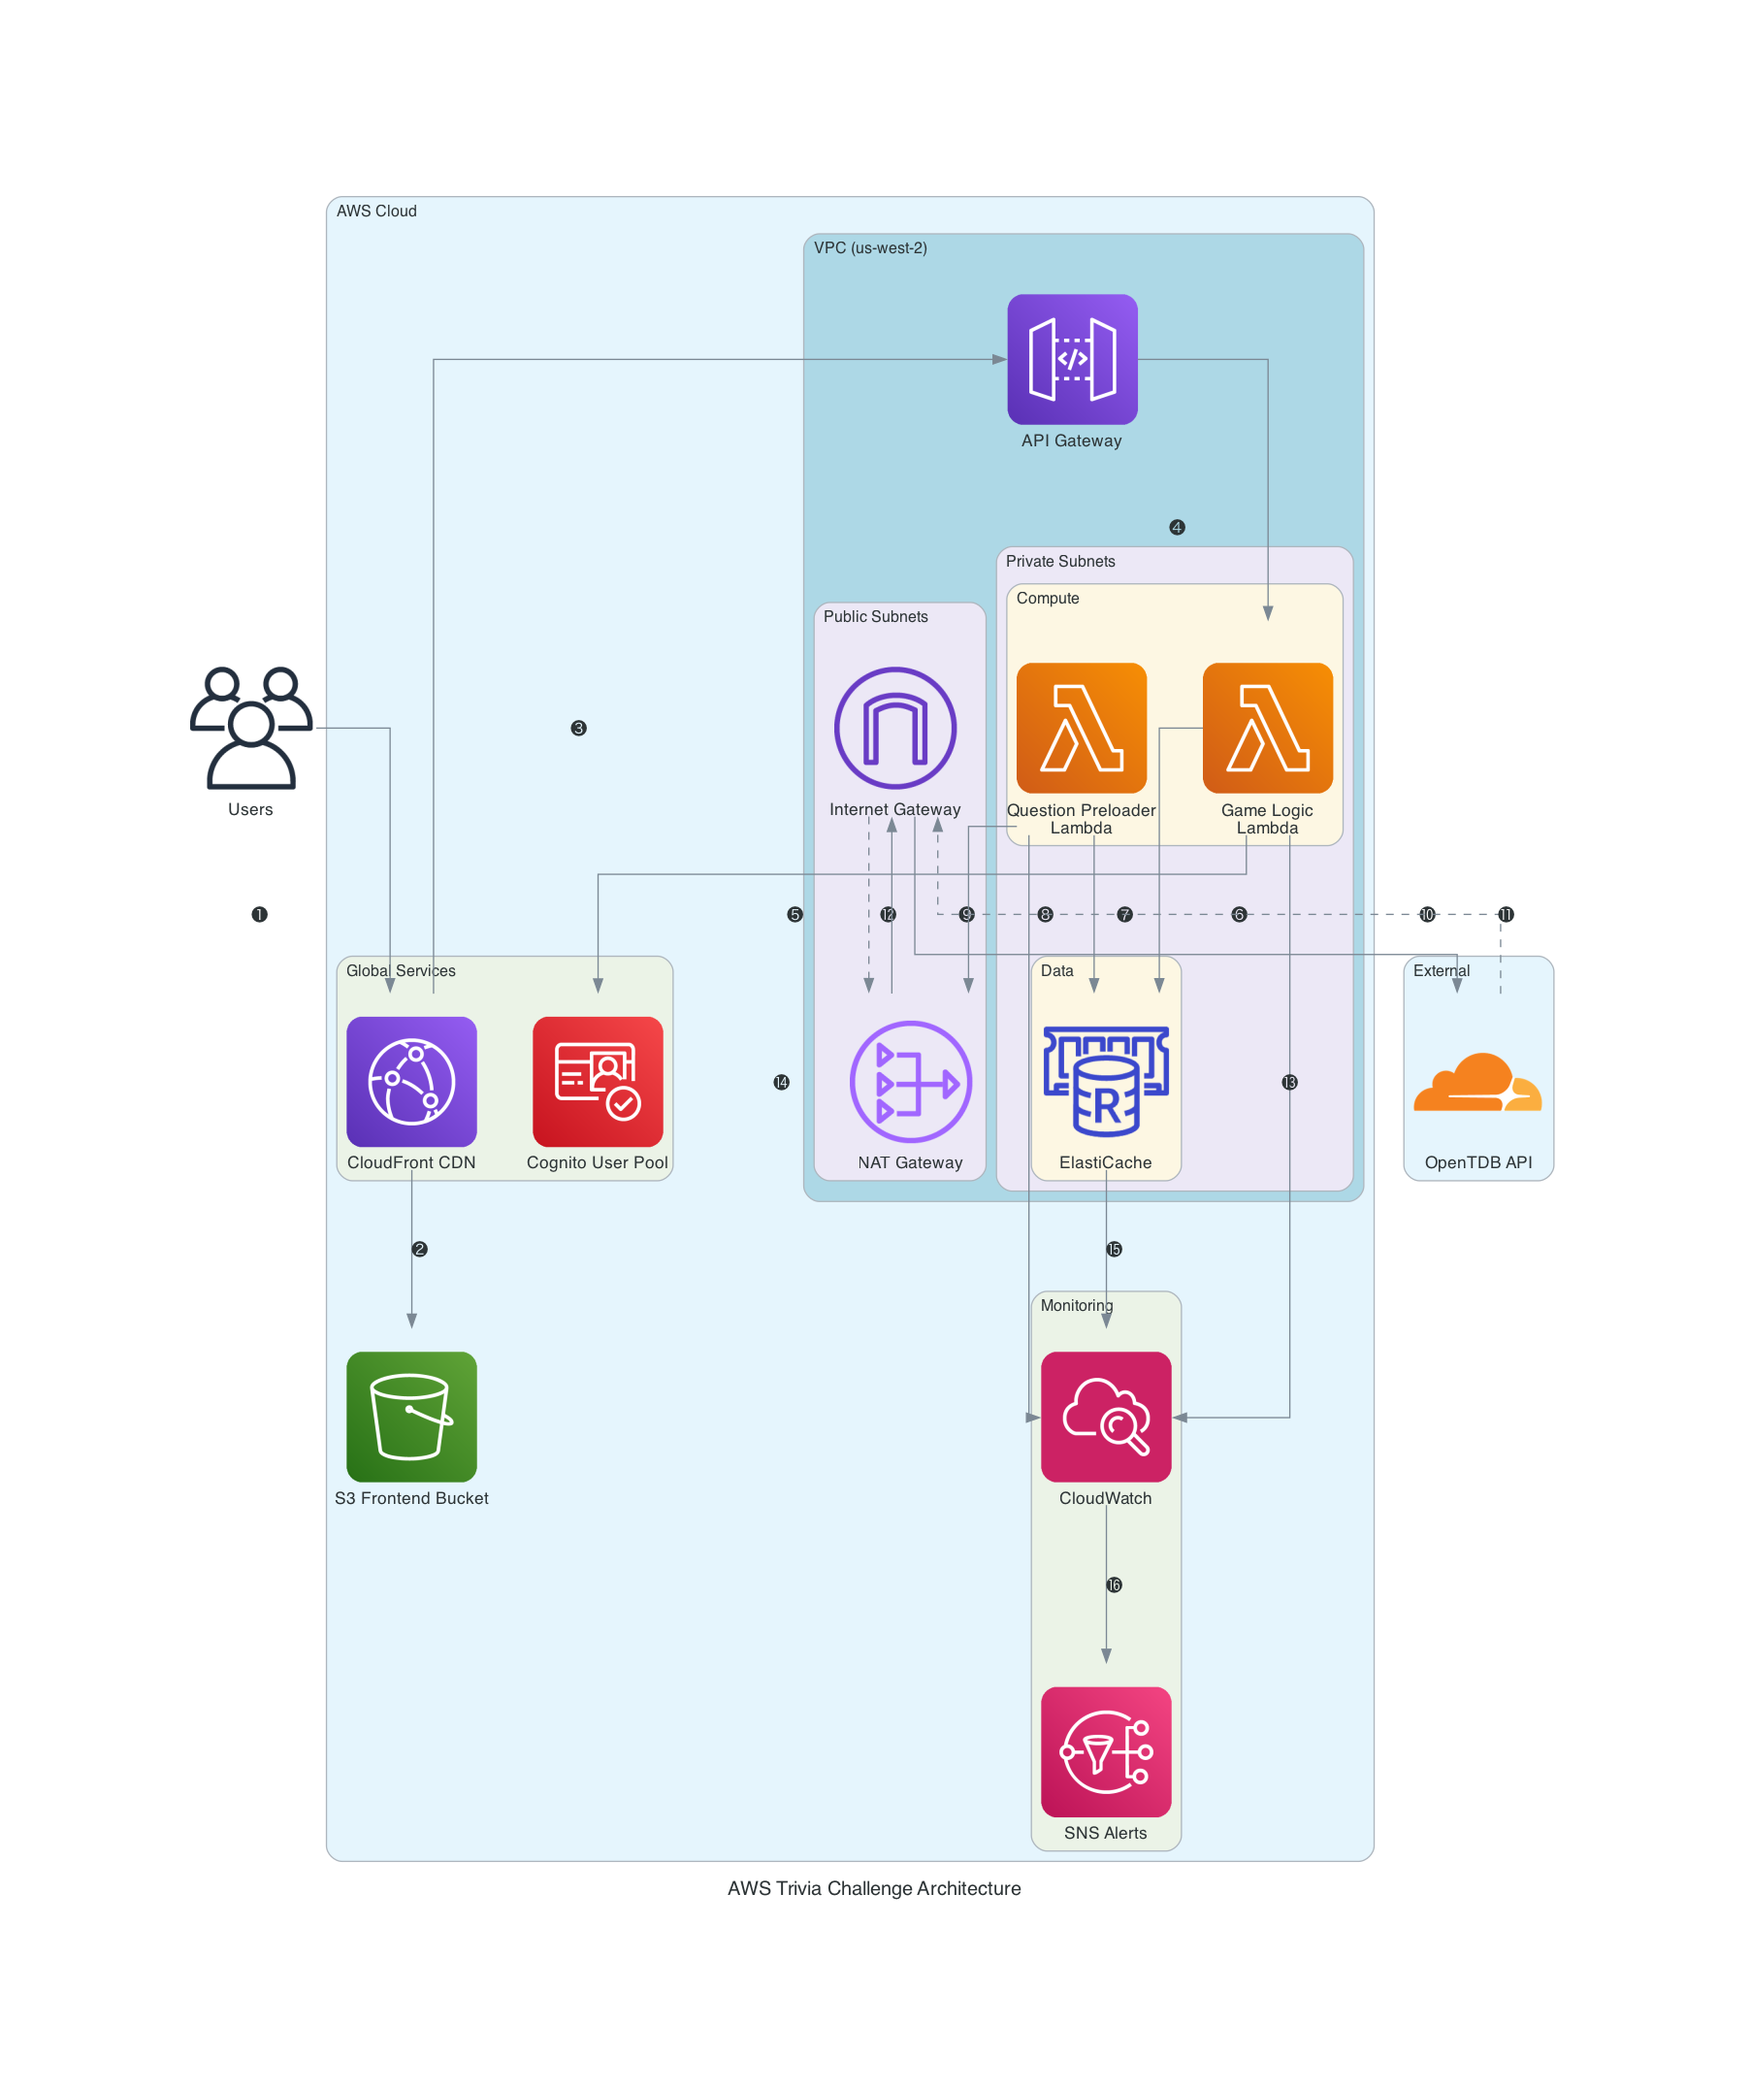
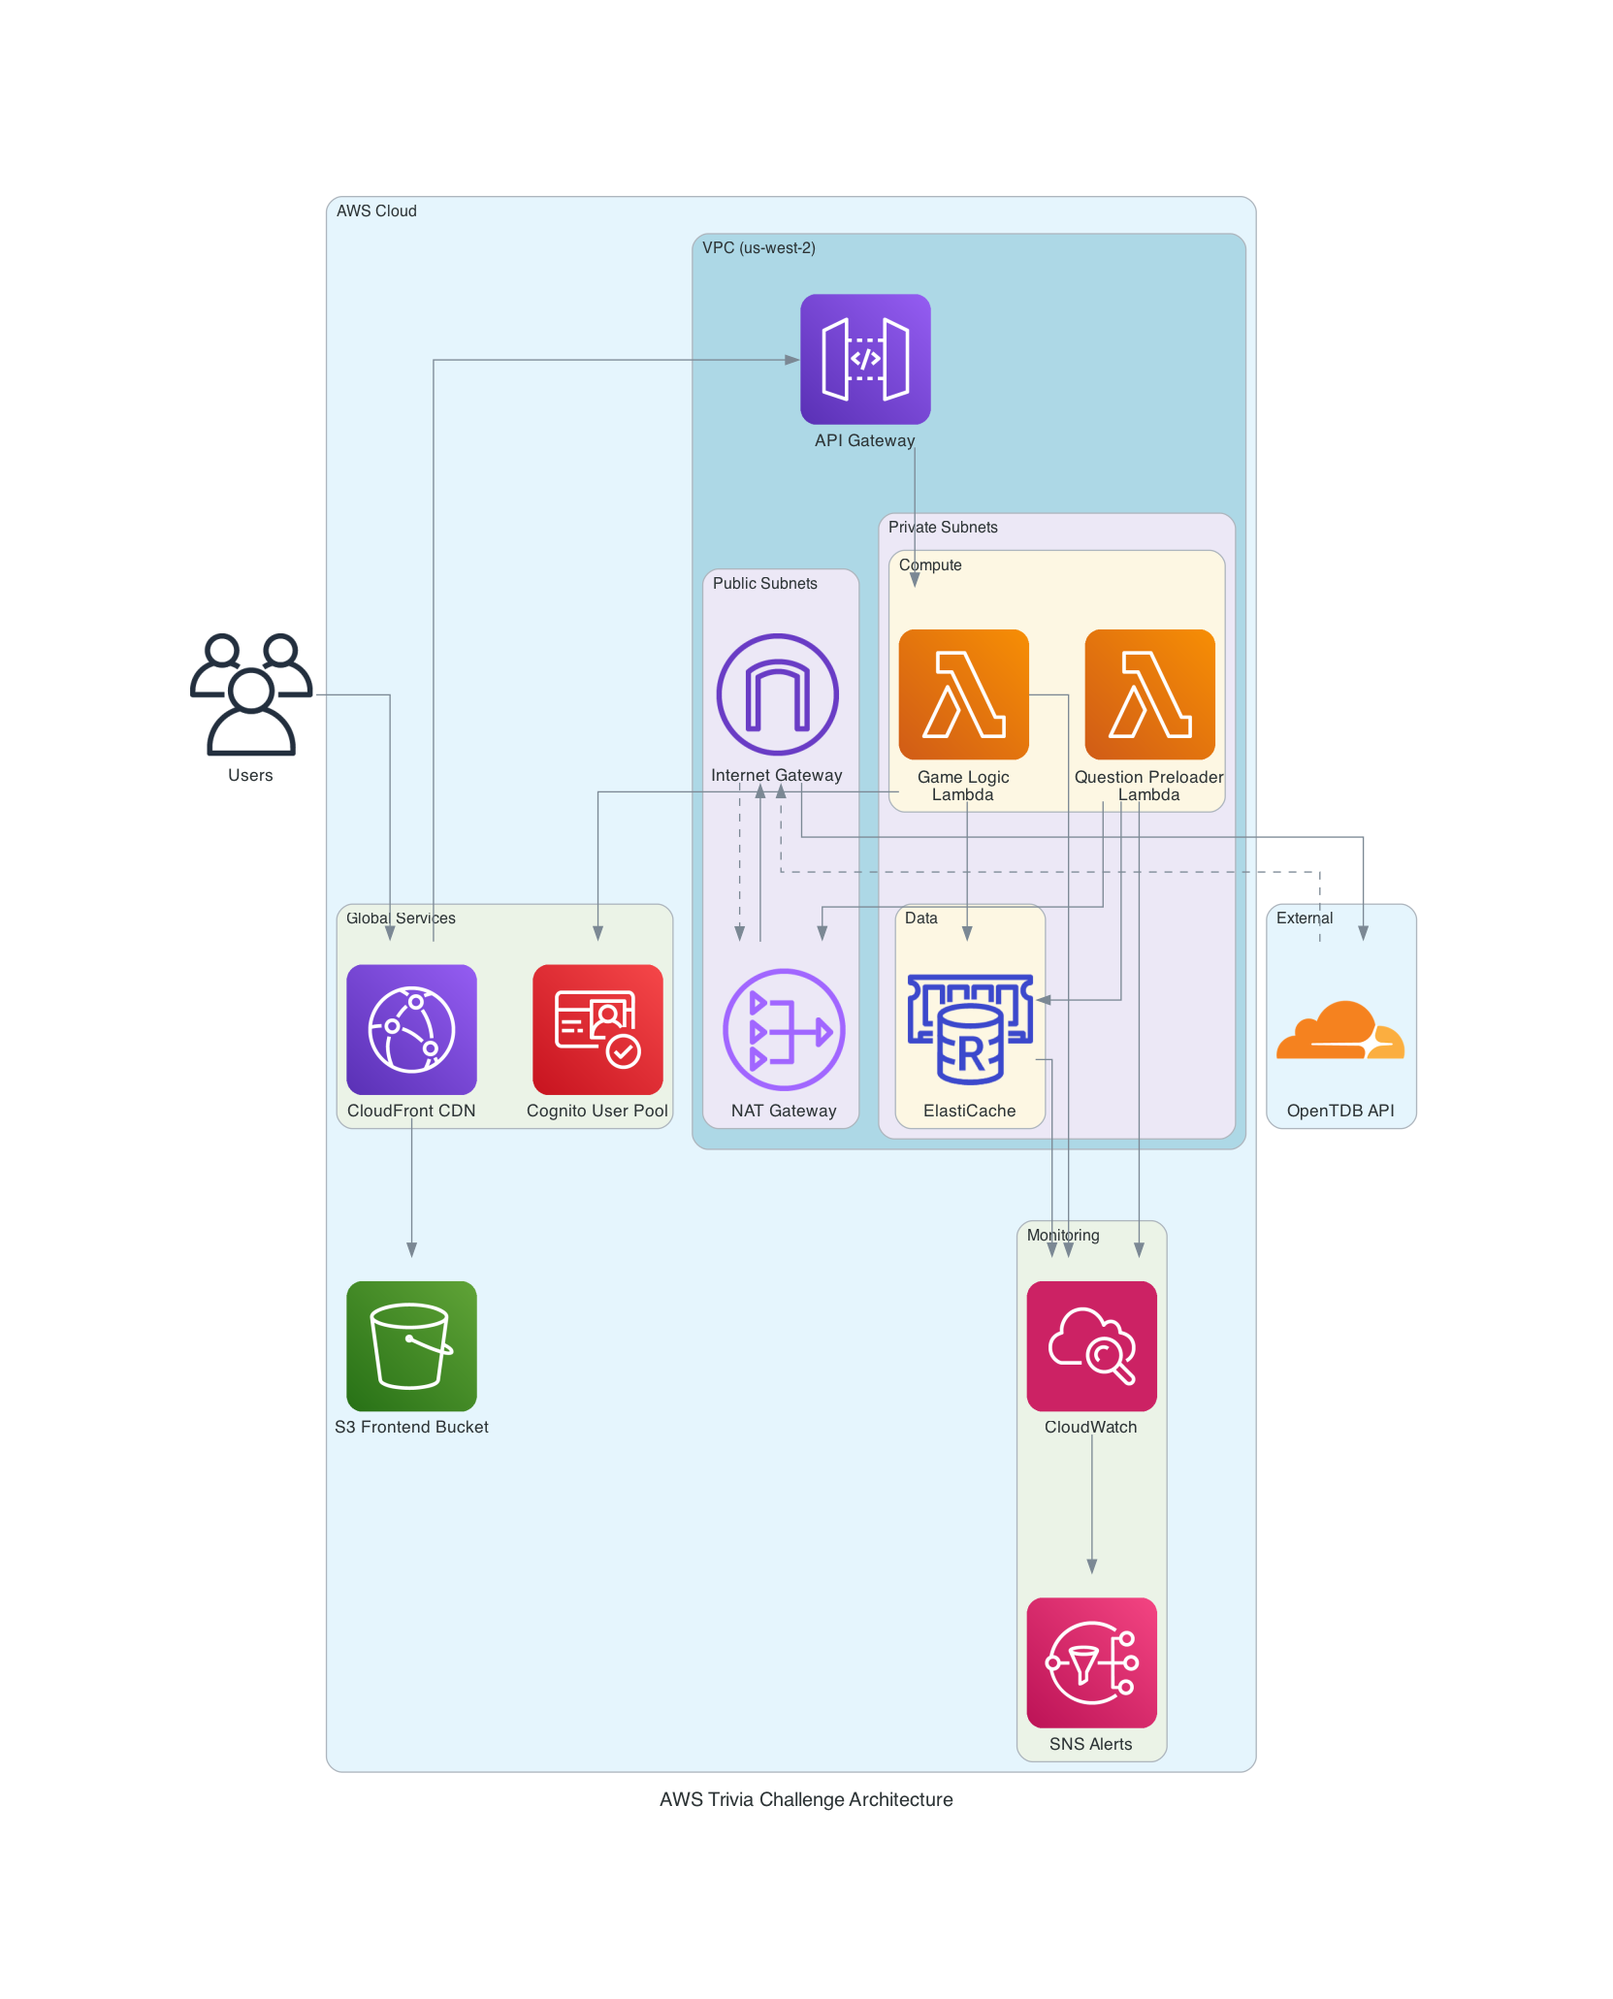
Remove arrow numbers from architecture diagram for cleaner visualization

Changed region(s): [[0.092, 0.0932, 0.8894, 0.9316]]

diff --git a/architecture/architecture_diagram.py b/architecture/architecture_diagram.py
@@ -48,38 +48,38 @@ with Diagram("AWS Trivia Challenge Architecture", show=False, direction="TB", gr
     with Cluster("External"):
         opentdb = Cloudflare("OpenTDB API")
     
-    # 1. User access
-    users >> Edge(label="❶") >> cloudfront
+    # User access
+    users >> cloudfront
     
-    # 2. Static content delivery
-    cloudfront >> Edge(label="❷") >> s3
+    # Static content delivery
+    cloudfront >> s3
     
-    # 3. API requests
-    cloudfront >> Edge(label="❸", minlen="1") >> api_gw
+    # API requests
+    cloudfront >> api_gw
     
-    # 4. Lambda invocation
-    api_gw >> Edge(label="❹") >> lambda_main
+    # Lambda invocation
+    api_gw >> lambda_main
     
-    # 5. Authentication
-    lambda_main >> Edge(label="❺", minlen="1") >> cognito
+    # Authentication
+    lambda_main >> cognito
     
-    # 6. Cache operations
-    lambda_main >> Edge(label="❻") >> elasticache
+    # Cache operations
+    lambda_main >> elasticache
     
-    # 7. Question preloading
-    lambda_preloader >> Edge(label="❼") >> elasticache
+    # Question preloading
+    lambda_preloader >> elasticache
     
-    # 8. Question preloading from external API
-    lambda_preloader >> Edge(label="❽") >> nat
-    nat >> Edge(label="❾") >> igw
-    igw >> Edge(label="❿") >> opentdb
+    # Question preloading from external API
+    lambda_preloader >> nat
+    nat >> igw
+    igw >> opentdb
     
-    # 11. Response back to preloader
-    opentdb >> Edge(label="⓫", style="dashed") >> igw
-    igw >> Edge(label="⓬", style="dashed") >> nat
+    # Response back to preloader
+    opentdb >> Edge(style="dashed") >> igw
+    igw >> Edge(style="dashed") >> nat
     
-    # 13. Monitoring and alerting
-    lambda_main >> Edge(label="⓭") >> cloudwatch
-    lambda_preloader >> Edge(label="⓮") >> cloudwatch
-    elasticache >> Edge(label="⓯") >> cloudwatch
-    cloudwatch >> Edge(label="⓰") >> sns
+    # Monitoring and alerting
+    lambda_main >> cloudwatch
+    lambda_preloader >> cloudwatch
+    elasticache >> cloudwatch
+    cloudwatch >> sns
